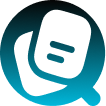
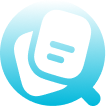
tags added to the notes

diff --git a/src/components/notes/NoteEditor.jsx b/src/components/notes/NoteEditor.jsx
@@ -20,7 +20,6 @@ const NoteEditor = () => {
         dispatch({ type: 'SELECT_NOTE', payload: null });
     };
 
-
     useEffect(() => {
         if (selectedNote) {
             setTitle(selectedNote.title);
@@ -71,39 +70,39 @@ const NoteEditor = () => {
                     <FileCheck2 size={16} /><h2>Note</h2>
                 </div>
                 <div className='flex items-center justify-center gap-2'>
-                <button
+                    <button
                         onClick={handleNewNote}
                         className='text-sm flex items-center-safe justify-center py-1 px-3 bg-default rounded-sm gap-1 cursor-pointer border-2 border-default hover:border-blue-500 hover:bg-white'
-                >
-                    <Plus size={14} strokeWidth={2}/>
-                    New Note
-                </button>
-                {(selectedNote || isEditing) && (
-                    <button
-                        onClick={isEditing ? handleSave : handleEdit}
-                        className='text-sm flex items-center-safe justify-center py-1 px-3 bg-default rounded-sm gap-1 cursor-pointer
-                        border-2 border-default hover:border-blue-500 hover:bg-white'
                     >
-                        {isEditing ? (
-                            <>
-                                <Save size={14} strokeWidth={2} className="inline-block mr-1" />
-                                Save
-                            </>
-                        ) : (
-                            <>
-                                <SquarePen size={14} strokeWidth={2} className="inline-block mr-1" />
-                                Edit
-                            </>
-                        )}
+                        <Plus size={14} strokeWidth={2} />
+                        New Note
                     </button>
-                )}
+                    {(selectedNote || isEditing) && (
+                        <button
+                            onClick={isEditing ? handleSave : handleEdit}
+                            className='text-sm flex items-center-safe justify-center py-1 px-3 bg-default rounded-sm gap-1 cursor-pointer
+                        border-2 border-default hover:border-blue-500 hover:bg-white'
+                        >
+                            {isEditing ? (
+                                <>
+                                    <Save size={14} strokeWidth={2} className="inline-block mr-1" />
+                                    Save
+                                </>
+                            ) : (
+                                <>
+                                    <SquarePen size={14} strokeWidth={2} className="inline-block mr-1" />
+                                    Edit
+                                </>
+                            )}
+                        </button>
+                    )}
                 </div>
             </div>
 
             {!isEditing ? (
                 <div className="p-3 bg-light h-full w-full overflow-y-auto font-DM">
                     <div className='bg-white border-[3px] border-default rounded-xl h-auto w-full p-4 note_card'>
-                        <h2 className="text-2xl font-semibold pb-3 border-b border-default">{title || 'Untitled'}</h2>
+                        <h2 className="text-2xl font-medium pb-3 border-b border-default">{title || 'Untitled'}</h2>
                         <p className="whitespace-pre-wrap py-3">{content || 'No content...'}</p>
                     </div>
                 </div>

diff --git a/src/components/notes/NoteCard.jsx b/src/components/notes/NoteCard.jsx
@@ -12,7 +12,7 @@ const NoteCard = ({ note, onClick }) => {
     }
   };
 
-  const handleFavourite = (e) =>{
+  const handleFavourite = (e) => {
     e.stopPropagation();
     dispatch({ type: 'FAVOURITE_NOTE', payload: note.id });
   }
@@ -24,31 +24,41 @@ const NoteCard = ({ note, onClick }) => {
       className={`p-4 rounded-4xl border-[3px] max-w-[270px] min-w-[270px] bg-white cursor-pointer ${isSelected ? 'border-cyan-500' : 'border-default'} note_card }`}>
       <div className="w-full py-1 pb-3 flex items-start justify-between border-b border-default">
         <div>
-          <FileText size={18}/>
+          <FileText size={18} />
         </div>
         <div className="flex items-center justify-between gap-5">
-        <button
-        onClick={handleFavourite}
-        className={`text-sm cursor-pointer ${note.favourite ? 'text-yellow-400':'text-[#bbb] '}`}
-        >
-          {note.favourite ?  <Star size={16} strokeWidth={2.5}/> : <StarOff size={16} strokeWidth={2.5}/>}
-        </button>
-        <button
-          onClick={handleDelete}
-          className="text-[#bbb] text-sm hover:text-red-500 cursor-pointer"
-        >
-          <X  size={20} strokeWidth={2.5} />
-        </button>
+          <button
+            onClick={handleFavourite}
+            className={`text-sm cursor-pointer ${note.favourite ? 'text-yellow-400' : 'text-[#bbb] '}`}
+          >
+            {note.favourite ? <Star size={16} strokeWidth={2.5} /> : <StarOff size={16} strokeWidth={2.5} />}
+          </button>
+          <button
+            onClick={handleDelete}
+            className="text-[#bbb] text-sm hover:text-red-500 cursor-pointer"
+          >
+            <X size={20} strokeWidth={2.5} />
+          </button>
         </div>
       </div>
       <div className="w-full border-b border-default">
         <div className="w-full h-full flex items-baseline justify-between py-2">
-          <h2 className="text-lg font-medium tracking-tight capitalize">{note.title.length > 14 ? note.title.slice(0,14) +"..." : note.title}</h2>
+          <h2 className="text-lg font-medium tracking-tight capitalize">{note.title.length > 14 ? note.title.slice(0, 14) + "..." : note.title}</h2>
           <span className="text-xs font-normal text-primary tracking-right">{new Date(note.updatedAt).toLocaleDateString()}</span>
         </div>
         <p className="text-sm font-normal text-justify pb-3 min-h-[92px]">
-         {note.content.length > 120 ? note.content.slice(0, 120) + "..." : note.content}
+          {note.content.length > 120 ? note.content.slice(0, 120) + "..." : note.content}
         </p>
+      </div>
+      <div className="flex items-start justify-start gap-2 mt-2 w-full h-fit overflow-x-auto scroll_hide">
+        {note.tags.map((tag, i) => (
+          <span
+            key={i}
+            className="bg-cyan-100 text-cyan-500 px-3 py-1 rounded-full text-xs whitespace-nowrap"
+          >
+            # {tag}
+          </span>
+        ))}
       </div>
       <div className="w-full flex items-end justify-between pt-3 text-xs font-light text-[#c4c4c4]">
         <span className="flex items-center justify-center text-primary gap-1 font-normal"><RotateCw size={14} />Last Updated</span>

diff --git a/src/components/notes/NoteTags.jsx b/src/components/notes/NoteTags.jsx
@@ -1,0 +1,68 @@
+import React, { useState } from 'react';
+import { useNotes } from '../../context/NoteContext'; // adjust path if needed
+import { Tag } from 'lucide-react';
+
+const NoteTags = () => {
+    const { state, dispatch } = useNotes();
+    const selectedNote = state.notes.find(n => n.id === state.selectedNoteId);
+
+    const [tagInput, setTagInput] = useState('');
+
+    const handleUpdateTags = (tags) => {
+        if (selectedNote) {
+            dispatch({
+                type: 'UPDATE_NOTE',
+                payload: {
+                    id: selectedNote.id,
+                    tags,
+                },
+            });
+        }
+    };
+
+    return (
+        <div className="w-[450px] h-full border-l border-default font-DM">
+            <div className='flex items-center-safe w-full font-Inter px-3 py-2.5 font-medium gap-2 text-base bg-white border-b border-default'>
+                <Tag size={16}/><h2>Tags</h2>
+            </div>
+            <div className='p-3 h-full w-full bg-white'>
+                <input
+                    type="text"
+                    placeholder="Enter Tag"
+                    value={tagInput}
+                    onChange={(e) => setTagInput(e.target.value)}
+                    onKeyDown={(e) => {
+                        if (e.key === 'Enter' && tagInput.trim()) {
+                            e.preventDefault();
+                            const newTags = [...(selectedNote?.tags || []), tagInput.trim()];
+                            handleUpdateTags(newTags);
+                            setTagInput('');
+                        }
+                    }}
+                    className="w-full border-2 border-default bg-white p-2 rounded-lg mb-2"
+                />
+
+                <div className="flex flex-col gap-2 mt-1 border-t border-default py-3">
+                    {(selectedNote?.tags || []).map((tag, index) => (
+                        <span
+                            key={index}
+                            className="bg-default px-3 py-1 rounded-lg text-sm flex items-center justify-between"
+                        >
+                            {tag}
+                            <button
+                                onClick={() =>
+                                    handleUpdateTags(selectedNote.tags.filter((t) => t !== tag))
+                                }
+                                className="text-red-500 font-bold text-lg cursor-pointer"
+                            >
+                                ×
+                            </button>
+                        </span>
+                    ))}
+                </div>
+            </div>
+        </div>
+    );
+};
+
+export default NoteTags;

diff --git a/src/App.jsx b/src/App.jsx
@@ -1,12 +1,13 @@
 import Main from "./components/layout/Main"
 import NotesList from "./components/notes/NotesList"
 import NoteEditor from "./components/notes/NoteEditor"
-
+import NoteTags from "./components/notes/NoteTags"
 function App() {
   return (
    <Main>
      <NotesList/>
      <NoteEditor/>
+     <NoteTags/>
    </Main>
   )
 }

diff --git a/index.html b/index.html
@@ -2,7 +2,7 @@
 <html lang="en">
   <head>
     <meta charset="UTF-8" />
-    <link rel="icon" type="image/svg+xml" href="/vite.svg" />
+    <link rel="icon" type="image" href="/quibly_icon.png" />
     <meta name="viewport" content="width=device-width, initial-scale=1.0" />
     <title>Quibly</title>
   </head>

diff --git a/src/index.css b/src/index.css
@@ -38,3 +38,6 @@
     background-color:#aaa;
 } */
 
+.scroll_hide::-webkit-scrollbar{
+    display:none;
+}
